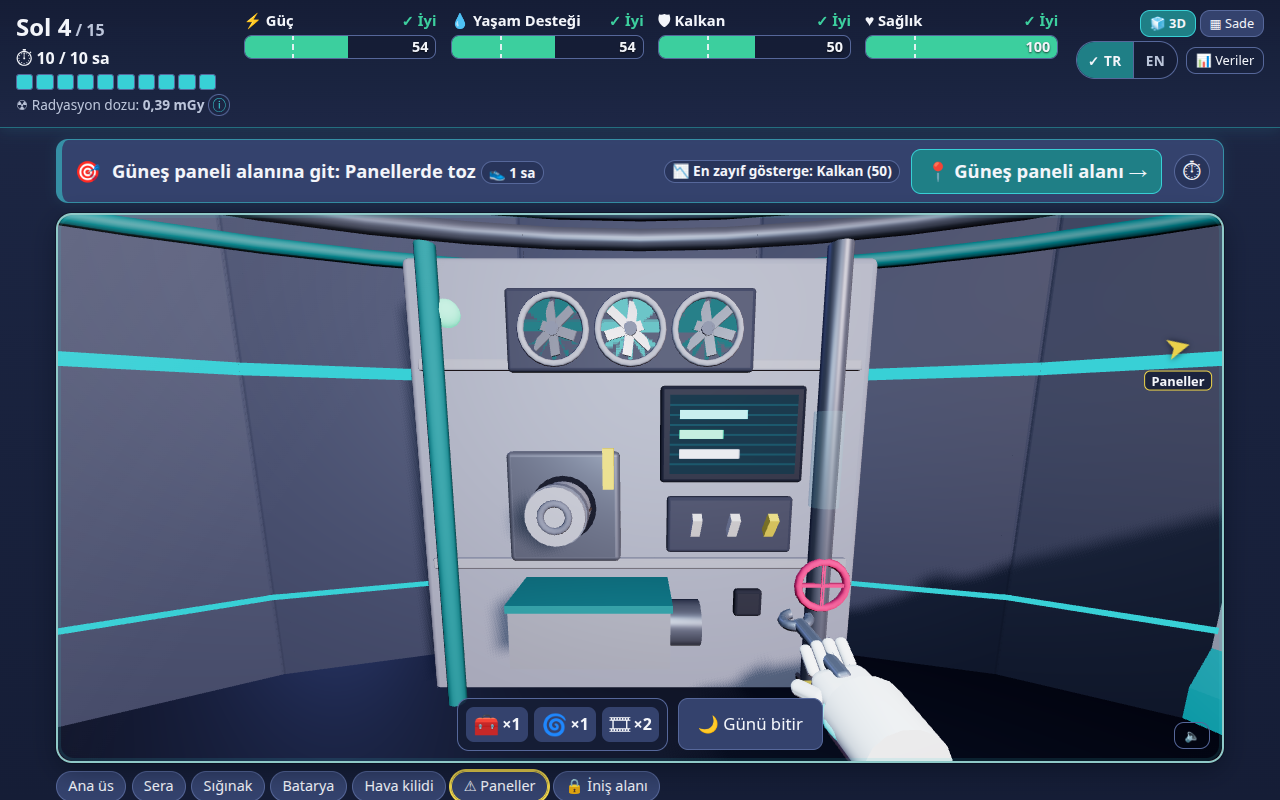
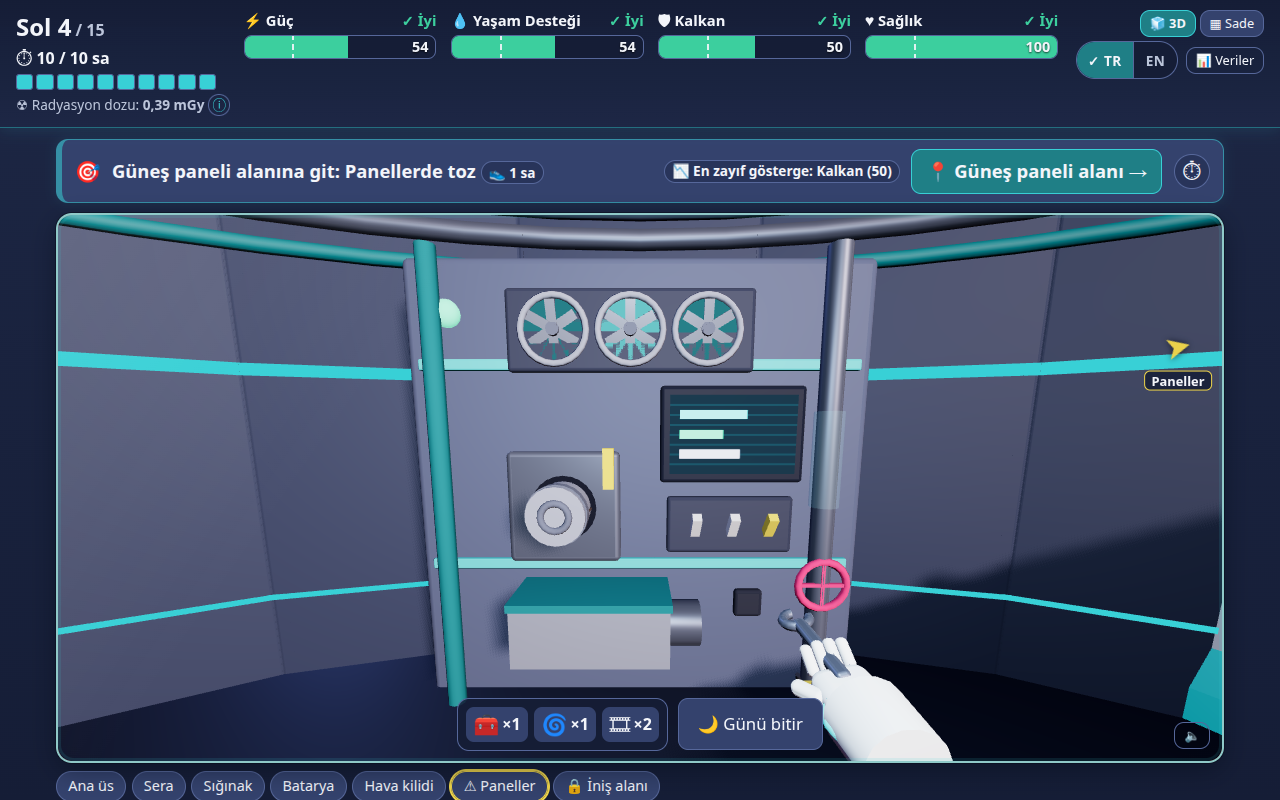
Hub cabinet darker with teal rails; updated after-shot

Changed region(s): [[0.3125, 0.3125, 0.6875, 0.875]]

diff --git a/src/scene/stations/Hub.tsx b/src/scene/stations/Hub.tsx
@@ -313,9 +313,9 @@ export default function Hub({ rt, work }: StationProps) {
   return (
     <group>
       {/* Cabinet with framed panels. */}
-      <RBox size={[2.5, 2.5, 0.5]} position={[0, 1.25, WALL_Z]} color={0x8d96ad} />
-      <RBox size={[2.36, 0.06, 0.04]} position={[0, 1.95, FRONT]} r={0.01} color={colorHex.hullDark} />
-      <RBox size={[2.36, 0.06, 0.04]} position={[0, 0.85, FRONT]} r={0.01} color={colorHex.hullDark} />
+      <RBox size={[2.5, 2.5, 0.5]} position={[0, 1.25, WALL_Z]} color={0x5a6582} />
+      <RBox size={[2.36, 0.06, 0.04]} position={[0, 1.95, FRONT]} r={0.01} color={colorHex.accent} />
+      <RBox size={[2.36, 0.06, 0.04]} position={[0, 0.85, FRONT]} r={0.01} color={colorHex.accent} />
       {/* Fan housing (top). */}
       <RBox size={[1.3, 0.42, 0.06]} r={0.02} position={[FAN[0], FAN[1], FRONT + 0.01]} color={0x3a4157} />
       {[-0.4, 0, 0.4].map((x) => (
